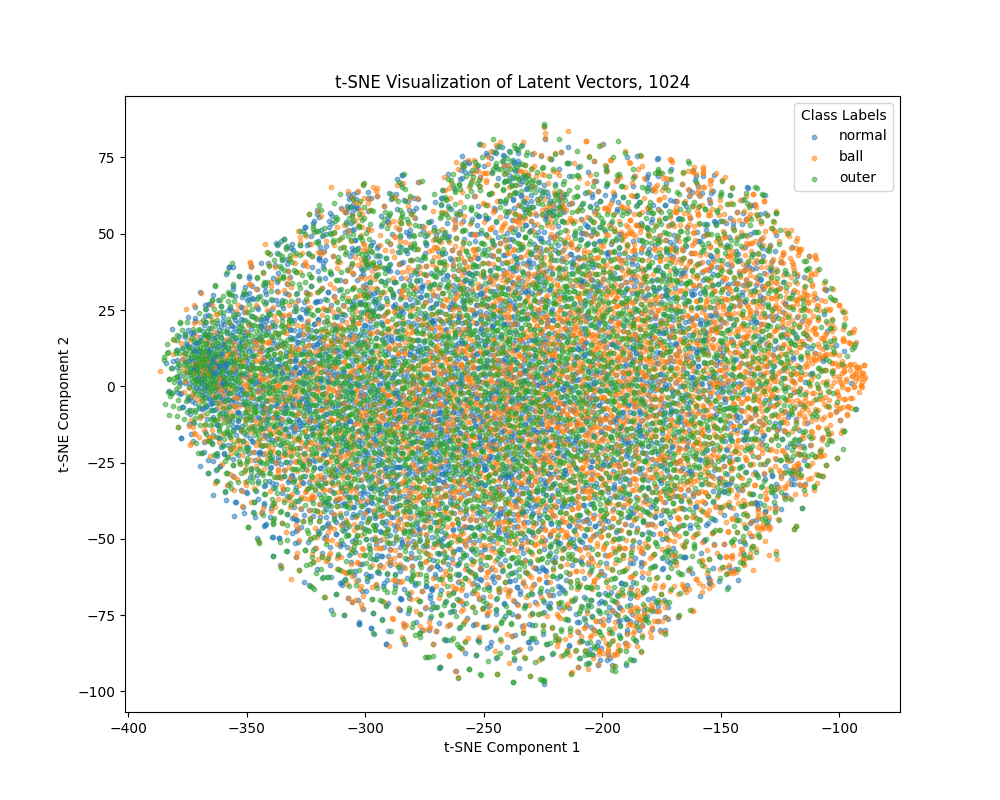
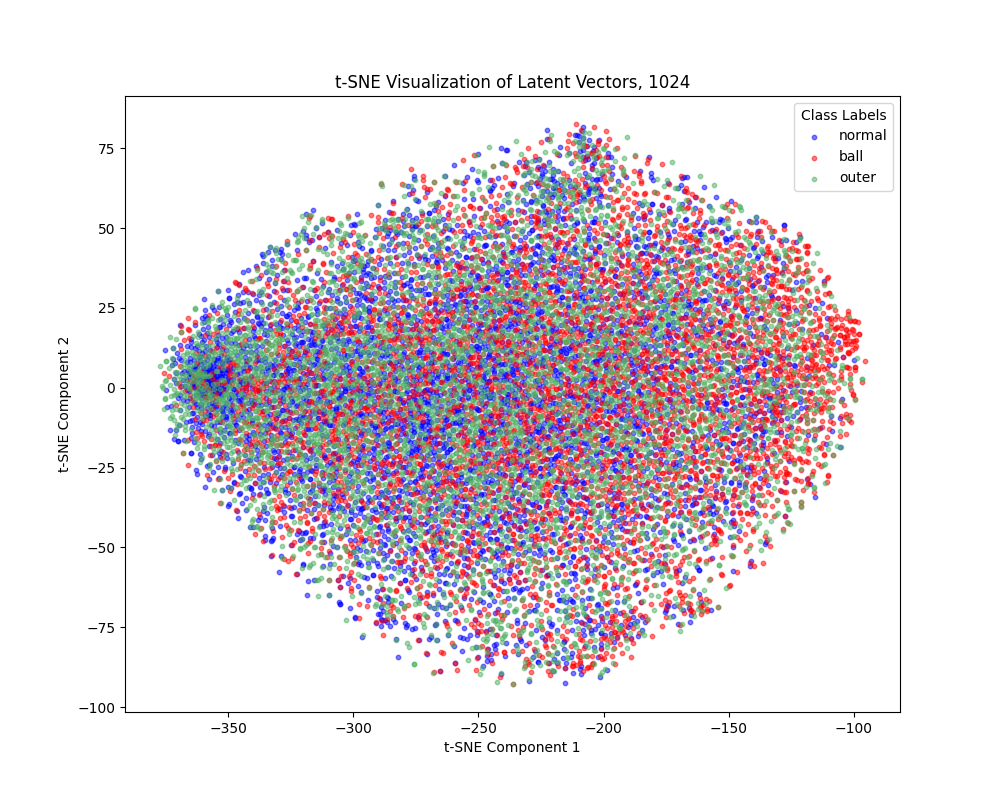
[latent-WDCNN] 결과 백업
track 2 결과도 백업
기본 AE 그림 색 맞춰 다시그리기

diff --git a/KSNVE-Challenge/latent_experiment_wdcnn_AE_track2.py b/KSNVE-Challenge/latent_experiment_wdcnn_AE_track2.py
@@ -1,0 +1,64 @@
+# main.py
+
+from pkgs import funs
+from pkgs import latent
+
+from torch.optim import Adam
+import torch
+
+
+def main(config, latent_size):
+    model_name = 'wdcnn_ae'
+    print(f'\nLatent space size: {latent_size}')
+
+    funs.set_seed(config.seed)
+    device = torch.device('cuda' if torch.cuda.is_available() else 'cpu')
+
+    print('\nCreating training dataframe...\n' + '-' * 40)
+    train_df = funs.make_dataframe(config.train_dir)
+    print('\nCreating evaluation dataframe...\n' + '-' * 40)
+    eval_df = funs.make_dataframe(config.eval_dir)
+
+    train_data, train_label = funs.get_data_label_arrays(train_df, config.sample_size, config.overlap)
+    eval_data, eval_label = funs.get_data_label_arrays(eval_df, config.sample_size, config.overlap) 
+
+    train_dataset = funs.KSNVEDataset(train_data, train_label)
+    eval_dataset = funs.KSNVEDataset(eval_data, eval_label)
+
+    train_loader = funs.get_dataloader(train_dataset, config.batch_size, shuffle = True)
+    eval_loader = funs.get_dataloader(eval_dataset, 1, shuffle = False)
+
+    encoder_block = latent.Conv1dBlock
+    decoder_block = latent.Upsample1dBlock
+    model = latent.WDCNN_AE(encoder_block, decoder_block, latent_size,
+                            in_channels=2, input_size=config.sample_size).to(device)
+    
+
+    optimizer = Adam(model.parameters(), lr = config.learning_rate)
+    loss = torch.nn.MSELoss()
+
+    trainer = funs.Trainer(model, loss, optimizer, device)
+    # trainer.train(config.epoch, train_loader)
+    # trainer.save(config.model_root, model_name=model_name, latent_size=latent_size)
+
+    model_path = f'{config.model_root}/{model_name}_{latent_size}.pt'
+    trainer.model.load_state_dict(torch.load(model_path, weights_only=True))
+
+    latent_vectors, fault_labels = trainer.eval(eval_loader, 'evaluation_results_wdcnn_ae_track2', latent_size) 
+    # 2d tnse
+    # latent.plot_tsne(config.tsne_root, latent_vectors, fault_labels, latent_size, 
+    #                  config.seed, n_components=2, model_name=model_name, except_IR=False)
+    # latent.plot_tsne(config.tsne_root, latent_vectors, fault_labels, latent_size, 
+    #                  config.seed, n_components=2, model_name=model_name, except_IR=True)
+    # # 3d tnse
+    # latent.plot_tsne(config.tsne_root, latent_vectors, fault_labels, latent_size, 
+    #                  config.seed, n_components=3, model_name=model_name, except_IR=False)
+    # latent.plot_tsne(config.tsne_root, latent_vectors, fault_labels, latent_size, 
+    #                  config.seed, n_components=3, model_name=model_name, except_IR=True)
+
+   
+if __name__ == '__main__' :
+    args = funs.parse_arguments()
+    config = funs.load_yaml('./config_track2.yaml')
+
+    main(config, args.latent_size)

diff --git a/KSNVE-Challenge/pkgs/latent/WDCNN_AE.py b/KSNVE-Challenge/pkgs/latent/WDCNN_AE.py
@@ -17,17 +17,30 @@ class Conv1dBlock(nn.Module):
         return out
 
 
+# class Upsample1dBlock(nn.Module):
+#     def __init__(self, in_channels, out_channels, kernel_size, stride, padding):
+#         super(Upsample1dBlock, self).__init__()
+#         self.upsample = nn.Upsample(scale_factor=2, mode='linear')
+#         self.convtranspose1d = nn.ConvTranspose1d(in_channels, out_channels, kernel_size, stride, padding)
+#         self.batchnorm1d = nn.BatchNorm1d(out_channels)
+#         self.relu = nn.ReLU()
+
+#     def forward(self, x):
+#         out = self.upsample(x)
+#         out = self.convtranspose1d(out)
+#         out = self.batchnorm1d(out)
+#         out = self.relu(out)
+#         return out
+
 class Upsample1dBlock(nn.Module):
-    def __init__(self, in_channels, out_channels, kernel_size, stride, padding):
+    def __init__(self, in_channels, out_channels, kernel_size, stride, padding, output_padding=0):
         super(Upsample1dBlock, self).__init__()
-        self.upsample = nn.Upsample(scale_factor=2, mode='linear')
-        self.convtranspose1d = nn.ConvTranspose1d(in_channels, out_channels, kernel_size, stride, padding)
+        self.convtranspose1d = nn.ConvTranspose1d(in_channels, out_channels, kernel_size, stride, padding, output_padding)
         self.batchnorm1d = nn.BatchNorm1d(out_channels)
         self.relu = nn.ReLU()
 
     def forward(self, x):
-        out = self.upsample(x)
-        out = self.convtranspose1d(out)
+        out = self.convtranspose1d(x)
         out = self.batchnorm1d(out)
         out = self.relu(out)
         return out
@@ -69,11 +82,11 @@ class WDCNN_AE(nn.Module):
         )
 
         self.decoder_conv = nn.Sequential(
-            decoder_block(in_channels=64, out_channels=64, kernel_size=3, stride=1, padding=0),
-            decoder_block(in_channels=64, out_channels=64, kernel_size=1, stride=1, padding=0),
-            decoder_block(in_channels=64, out_channels=32, kernel_size=1, stride=1, padding=0),
-            decoder_block(in_channels=32, out_channels=16, kernel_size=1, stride=1, padding=0),
-            nn.Upsample(scale_factor=2, mode='linear')
+            decoder_block(in_channels=64, out_channels=64, kernel_size=3, stride=2, padding=0, output_padding=1),
+            decoder_block(in_channels=64, out_channels=64, kernel_size=3, stride=2, padding=1, output_padding=1),
+            decoder_block(in_channels=64, out_channels=32, kernel_size=3, stride=2, padding=1, output_padding=1),
+            decoder_block(in_channels=32, out_channels=16, kernel_size=3, stride=2, padding=1, output_padding=1),
+            decoder_block(in_channels=16, out_channels=1, kernel_size=64, stride=32, padding=24, output_padding=16),
         )
 
     def forward(self, x: torch.Tensor) -> torch.Tensor:

diff --git a/KSNVE-Challenge/latent_experiment_wdcnn_AE.py b/KSNVE-Challenge/latent_experiment_wdcnn_AE.py
@@ -38,23 +38,23 @@ def main(config, latent_size):
     loss = torch.nn.MSELoss()
 
     trainer = funs.Trainer(model, loss, optimizer, device)
-    trainer.train(config.epoch, train_loader)
-    trainer.save(config.model_root, model_name=model_name, latent_size=latent_size)
+    # trainer.train(config.epoch, train_loader)
+    # trainer.save(config.model_root, model_name=model_name, latent_size=latent_size)
 
     model_path = f'{config.model_root}/{model_name}_{latent_size}.pt'
     trainer.model.load_state_dict(torch.load(model_path, weights_only=True))
 
-    latent_vectors, fault_labels = trainer.eval(eval_loader) 
+    latent_vectors, fault_labels = trainer.eval(eval_loader, 'evaluation_results_wdcnn_ae', latent_size) 
     # 2d tnse
-    latent.plot_tsne(config.tsne_root, latent_vectors, fault_labels, latent_size, 
-                     config.seed, n_components=2, model_name=model_name, except_IR=False)
-    latent.plot_tsne(config.tsne_root, latent_vectors, fault_labels, latent_size, 
-                     config.seed, n_components=2, model_name=model_name, except_IR=True)
-    # 3d tnse
-    latent.plot_tsne(config.tsne_root, latent_vectors, fault_labels, latent_size, 
-                     config.seed, n_components=3, model_name=model_name, except_IR=False)
-    latent.plot_tsne(config.tsne_root, latent_vectors, fault_labels, latent_size, 
-                     config.seed, n_components=3, model_name=model_name, except_IR=True)
+    # latent.plot_tsne(config.tsne_root, latent_vectors, fault_labels, latent_size, 
+    #                  config.seed, n_components=2, model_name=model_name, except_IR=False)
+    # latent.plot_tsne(config.tsne_root, latent_vectors, fault_labels, latent_size, 
+    #                  config.seed, n_components=2, model_name=model_name, except_IR=True)
+    # # 3d tnse
+    # latent.plot_tsne(config.tsne_root, latent_vectors, fault_labels, latent_size, 
+    #                  config.seed, n_components=3, model_name=model_name, except_IR=False)
+    # latent.plot_tsne(config.tsne_root, latent_vectors, fault_labels, latent_size, 
+    #                  config.seed, n_components=3, model_name=model_name, except_IR=True)
 
    
 if __name__ == '__main__' :

diff --git a/KSNVE-Challenge/pkgs/funs/trainer.py b/KSNVE-Challenge/pkgs/funs/trainer.py
@@ -3,6 +3,7 @@
 import torch
 import numpy as np
 import os
+import csv
 
 from sklearn.metrics import roc_auc_score
 
@@ -36,13 +37,20 @@ class Trainer:
 
         return train_loss_list
             
-    def eval(self, eval_loader):
+    def eval(self, eval_loader, csv_name, latent_size):
         print("\nStarting Evaluation... \n" + "-" * 40)
         self.model.eval()
         eval_loss_list, auc_dic, latent_vectors, fault_label_list = self.validation_step(eval_loader)
         print(f'Validation Loss: {np.mean(eval_loss_list):.5f}')
         for fault, auc in auc_dic.items():
             print(f'{fault} AUC \t{auc:.5f}')
+
+        with open(f"{csv_name}.csv", mode='a', newline='') as file:
+            writer = csv.writer(file)
+            # 첫 번째 줄에는 헤더를 추가하려면 파일이 비었을 때만 추가
+            writer.writerow(["Fault", "AUC", "Validation Loss", "latent size"])  # CSV 헤더 작성
+            for fault, auc in auc_dic.items():
+                writer.writerow([fault, auc, np.mean(eval_loss_list), latent_size])  # Validation Loss를 각 AUC 항목과 함께 기록
             
         return latent_vectors, fault_label_list
 

diff --git a/KSNVE-Challenge/latent_experiment.py b/KSNVE-Challenge/latent_experiment.py
@@ -34,13 +34,13 @@ def main(config, layer_size_list):
     loss = torch.nn.MSELoss()
 
     trainer = funs.Trainer(model, loss, optimizer, device)
-    trainer.train(config.epoch, train_loader)
-    trainer.save(config.model_root, latent_size=latent_size)
+    # trainer.train(config.epoch, train_loader)
+    # trainer.save(config.model_root, latent_size=latent_size)
 
     model_path = f'{config.model_root}/model_{latent_size}.pt'
     trainer.model.load_state_dict(torch.load(model_path, weights_only=True))
 
-    latent_vectors, fault_labels = trainer.eval(eval_loader) 
+    latent_vectors, fault_labels = trainer.eval(eval_loader, 'evaluation_results_ae', latent_size) 
     # 2d tnse
     latent.plot_tsne(config.tsne_root, latent_vectors, fault_labels, latent_size, 
                      config.seed, n_components=2, except_IR=False)
@@ -57,4 +57,4 @@ if __name__ == '__main__' :
     args = funs.parse_arguments()
     config = funs.load_yaml('./config.yaml')
 
-    main(config, args.latent)
+    main(config, args.latent_size_list)
